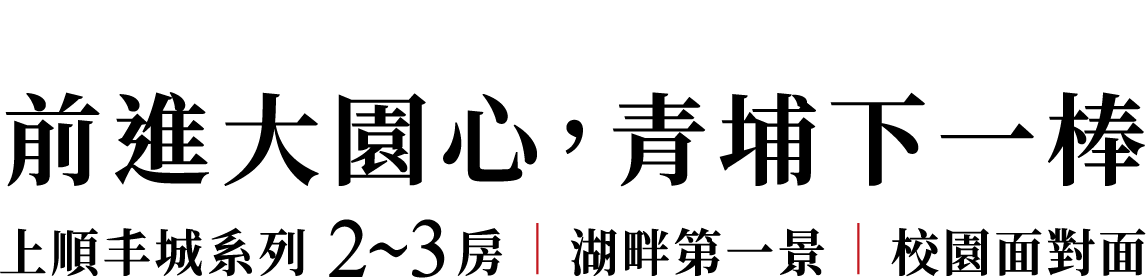
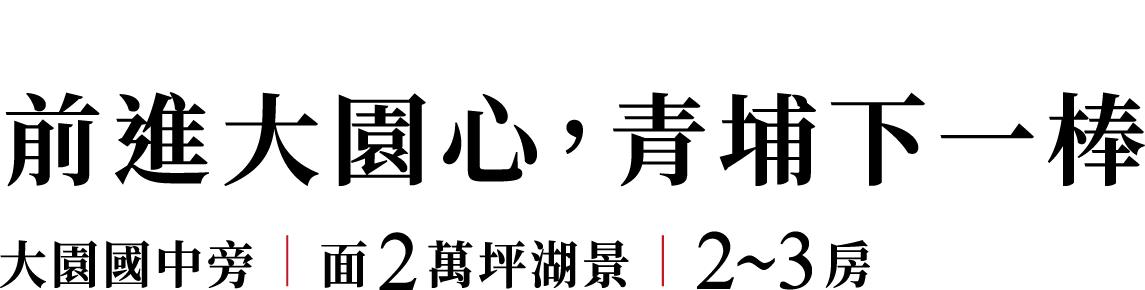
updated

diff --git a/public/index.html b/public/index.html
@@ -22,13 +22,13 @@
     -->
     <meta
       name="description"
-      content="前進大園心 青埔下一棒 上順丰城系列 2-3 房 湖畔第一景 校園面對面"
+      content="前進大園心 青埔下一棒 大園國中旁 面 2 萬坪湖景 2-3 房"
     />
-    <meta property="og:title" content="上順丰城艾麗" />
-    <meta property="og:description" content="前進大園心 青埔下一棒 上順丰城系列 2-3 房 湖畔第一景 校園面對面" />
+    <meta property="og:title" content="上順艾麗" />
+    <meta property="og:description" content="前進大園心 青埔下一棒 大園國中旁 面 2 萬坪湖景 2-3 房" />
     <meta property="og:image" content="%PUBLIC_URL%/images/web01.jpeg" />
     <link rel="apple-touch-icon" href="%PUBLIC_URL%/images/web01.jpeg" />
-    <title>上順丰城艾麗</title>
+    <title>上順艾麗</title>
   </head>
   <body>
     <noscript>You need to enable JavaScript to run this app.</noscript>

diff --git a/src/Header.js b/src/Header.js
@@ -16,7 +16,7 @@ function Header() {
         className='block md:hidden bg-cover bg-no-repeat bg-center w-full  aspect-[9/13] relative '
         style={{backgroundImage: `url(${process.env.PUBLIC_URL +'/images/header_bg_mb.png'})`}}
       >
-          <div className=' absolute bottom-10 left-1/2 -translate-x-1/2' >
+          <div className=' absolute bottom-10 left-1/2 -translate-x-1/2 w-4/5' >
             <img src={process.env.PUBLIC_URL+'/images/header_title_mb.png'} alt="" className='w-full' data-aos="fade-up" data-aos-duration="1500" />
           </div>
           <div className=' absolute top-24 right-5 w-1/2' >
